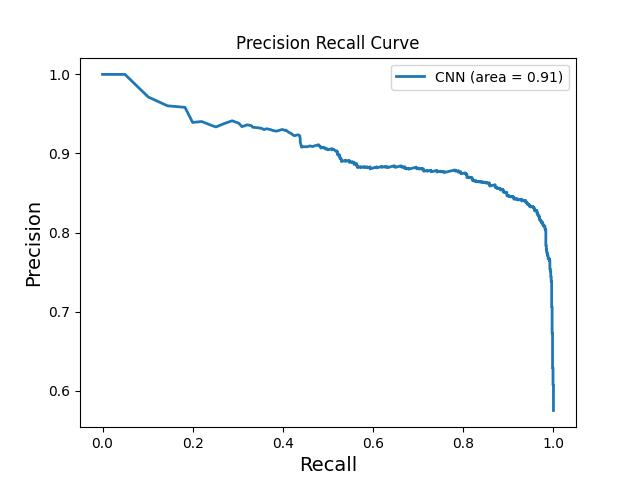
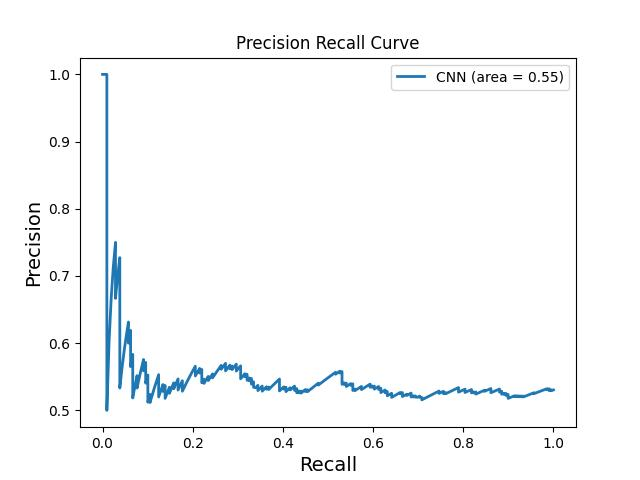
add Yeast_PPI and Human_PPI

diff --git a/train/human_ppi.py b/train/human_ppi.py
@@ -1,0 +1,84 @@
+import os
+import sys
+import argparse
+import torch
+import wandb
+
+module_path = os.path.abspath(os.path.join(os.path.dirname(__file__), '..'))
+if module_path not in sys.path:
+    sys.path.append(module_path)
+
+from ProB.dataset import *
+import ProB.utils as utils
+import ProB.PPI as models
+
+def parse_args():
+    parser = argparse.ArgumentParser(description="PPI Prediction with `ProB`")
+    parser.add_argument('--target_encoding', type=str, default='CNN', help='Encoding method for target proteins')
+    parser.add_argument('--seed', type=int, default=42, help='Random seed for reproducibility')
+    parser.add_argument('--wandb_proj', type=str, default='your_project_name', help='wandb project name')
+    parser.add_argument('--lr', type=float, default=0.0001, help='0.0001/0.00001')
+    parser.add_argument('--epochs', type=int, default=100, help='50/100')
+    parser.add_argument('--compute_pos_enc', type=bool, default=False, help='compute position encoding')
+    parser.add_argument('--batch_size', type=int, default=32, help='batch size')
+    return parser.parse_args()
+
+
+if __name__ == '__main__':
+
+    args = parse_args()
+    target_encoding = args.target_encoding
+    wandb_project = args.wandb_proj
+    lr = args.lr
+    epochs = args.epochs
+    compute_pos = args.compute_pos_enc
+    batch_size = args.batch_size
+
+    job_name = f"Human_PPI + {target_encoding}"
+    wandb.init(project=wandb_project, name=job_name)
+    wandb.config.update(args)
+
+    path = os.getcwd()
+
+    train_ppi = HUMAN_PPI(path + '/ProB/data', 'train')
+    valid_ppi = HUMAN_PPI(path + '/ProB/data', 'valid')
+    test_ppi = HUMAN_PPI(path + '/ProB/data', 'test')
+
+    if target_encoding in ['DGL_GAT', 'DGL_GCN', 'DGL_NeuralFP', 'DGL_AttentiveFP', 'DGL_MPNN', 'PAGTN', 'EGT', 'Graphormer']:
+
+        train_protein_1, train_protein_2, train_target, train_protein_idx = collate_fn_ppi(train_ppi, graph=True, unsqueeze= False)
+        valid_protein_1, valid_protein_2, valid_target, valid_protein_idx = collate_fn_ppi(valid_ppi, graph=True, unsqueeze= False)
+        test_protein_1, test_protein_2, test_target, test_protein_idx = collate_fn_ppi(test_ppi, graph=True, unsqueeze= False)
+
+    else:
+
+        train_protein_1, train_protein_2, train_target, train_protein_idx = collate_fn_ppi(train_ppi, graph=False, unsqueeze= False)
+        valid_protein_1, valid_protein_2, valid_target, valid_protein_idx = collate_fn_ppi(valid_ppi, graph=False, unsqueeze= False)
+        test_protein_1, test_protein_2, test_target, test_protein_idx = collate_fn_ppi(test_ppi, graph=False, unsqueeze= False)
+
+
+    train, _, _ = data_process(X_target = train_protein_1, X_target_ = train_protein_2, y = train_target,
+                    target_encoding = target_encoding,
+                    split_method='random', frac=[0.99998, 1e-5, 1e-5],
+                    random_seed = 1)
+    _, val, _ = data_process(X_target = valid_protein_1, X_target_ = valid_protein_2, y = valid_target,
+                    target_encoding = target_encoding,
+                    split_method='random',frac=[1e-5, 0.99998, 1e-5],
+                    random_seed = 1)
+
+    _, _, test = data_process(X_target = test_protein_1, X_target_ = test_protein_2, y = test_target,
+                    target_encoding = target_encoding,
+                    split_method='random',frac=[1e-5, 1e-5, 0.99998],
+                    random_seed = 1)
+    #
+    config = generate_config(target_encoding = target_encoding,
+                             cls_hidden_dims = [512],
+                             train_epoch = epochs,
+                             LR = lr,
+                             batch_size = batch_size,
+                            )
+
+    config['binary'] = True
+    torch.manual_seed(args.seed)
+    model = models.model_initialize(**config)
+    model.train(train, val, test)

diff --git a/train/yeast_ppi.py b/train/yeast_ppi.py
@@ -1,0 +1,84 @@
+import os
+import sys
+import argparse
+import torch
+import wandb
+
+module_path = os.path.abspath(os.path.join(os.path.dirname(__file__), '..'))
+if module_path not in sys.path:
+    sys.path.append(module_path)
+
+from ProB.dataset import *
+import ProB.utils as utils
+import ProB.PPI as models
+
+def parse_args():
+    parser = argparse.ArgumentParser(description="PPI Prediction with `ProB`")
+    parser.add_argument('--target_encoding', type=str, default='CNN', help='Encoding method for target proteins')
+    parser.add_argument('--seed', type=int, default=42, help='Random seed for reproducibility')
+    parser.add_argument('--wandb_proj', type=str, default='your_project_name', help='wandb project name')
+    parser.add_argument('--lr', type=float, default=0.0001, help='0.0001/0.00001')
+    parser.add_argument('--epochs', type=int, default=100, help='50/100')
+    parser.add_argument('--compute_pos_enc', type=bool, default=False, help='compute position encoding')
+    parser.add_argument('--batch_size', type=int, default=32, help='batch size')
+    return parser.parse_args()
+
+
+if __name__ == '__main__':
+
+    args = parse_args()
+    target_encoding = args.target_encoding
+    wandb_project = args.wandb_proj
+    lr = args.lr
+    epochs = args.epochs
+    compute_pos = args.compute_pos_enc
+    batch_size = args.batch_size
+
+    job_name = f"Yeast_PPI + {target_encoding}"
+    wandb.init(project=wandb_project, name=job_name)
+    wandb.config.update(args)
+
+    path = os.getcwd()
+
+    train_ppi = Yeast_PPI(path + '/ProB/data', 'train')
+    valid_ppi = Yeast_PPI(path + '/ProB/data', 'valid')
+    test_ppi = Yeast_PPI(path + '/ProB/data', 'test')
+
+    if target_encoding in ['DGL_GAT', 'DGL_GCN', 'DGL_NeuralFP', 'DGL_AttentiveFP', 'DGL_MPNN', 'PAGTN', 'EGT', 'Graphormer']:
+
+        train_protein_1, train_protein_2, train_target, train_protein_idx = collate_fn_ppi(train_ppi, graph=True, unsqueeze= False)
+        valid_protein_1, valid_protein_2, valid_target, valid_protein_idx = collate_fn_ppi(valid_ppi, graph=True, unsqueeze= False)
+        test_protein_1, test_protein_2, test_target, test_protein_idx = collate_fn_ppi(test_ppi, graph=True, unsqueeze= False)
+
+    else:
+
+        train_protein_1, train_protein_2, train_target, train_protein_idx = collate_fn_ppi(train_ppi, graph=False, unsqueeze= False)
+        valid_protein_1, valid_protein_2, valid_target, valid_protein_idx = collate_fn_ppi(valid_ppi, graph=False, unsqueeze= False)
+        test_protein_1, test_protein_2, test_target, test_protein_idx = collate_fn_ppi(test_ppi, graph=False, unsqueeze= False)
+
+
+    train, _, _ = data_process(X_target = train_protein_1, X_target_ = train_protein_2, y = train_target,
+                    target_encoding = target_encoding,
+                    split_method='random', frac=[0.99998, 1e-5, 1e-5],
+                    random_seed = 1)
+    _, val, _ = data_process(X_target = valid_protein_1, X_target_ = valid_protein_2, y = valid_target,
+                    target_encoding = target_encoding,
+                    split_method='random',frac=[1e-5, 0.99998, 1e-5],
+                    random_seed = 1)
+
+    _, _, test = data_process(X_target = test_protein_1, X_target_ = test_protein_2, y = test_target,
+                    target_encoding = target_encoding,
+                    split_method='random',frac=[1e-5, 1e-5, 0.99998],
+                    random_seed = 1)
+    #
+    config = generate_config(target_encoding = target_encoding,
+                             cls_hidden_dims = [512],
+                             train_epoch = epochs,
+                             LR = lr,
+                             batch_size = batch_size,
+                            )
+
+    config['binary'] = True
+    torch.manual_seed(args.seed)
+    model = models.model_initialize(**config)
+    model.train(train, val, test)

diff --git a/ProB/dataset.py b/ProB/dataset.py
@@ -253,6 +253,59 @@ class PPI_Affinity(Dataset):
         # print(protein_orig, target)
         return graph1, graph2, target
 
+class HUMAN_PPI(Dataset):
+
+    def __init__(self,
+                 data_path: Union[str, Path],
+                 split: str,
+                 in_memory: bool = False):
+        if split not in ('train', 'valid', 'test'):
+            raise ValueError(f"Unrecognized split: {split}. "
+                             f"Must be one of ['train', 'valid', 'test']")
+
+        data_path = Path(data_path)
+        data_file = f'human_ppi/human_ppi_{split}.lmdb'
+        self.data = dataset_factory(data_path / data_file, in_memory)
+        # print(self.__getitem__(0))
+
+    def __len__(self) -> int:
+        return len(self.data)
+
+    def __getitem__(self, index: int):
+        graph1 = self.data[index]['primary_1']
+        graph2 = self.data[index]['primary_2']
+        target = self.data[index]['interaction']
+        # print(protein_orig, target)
+        return graph1, graph2, target
+
+class Yeast_PPI(Dataset):
+
+    def __init__(self,
+                 data_path: Union[str, Path],
+                 split: str,
+                 in_memory: bool = False):
+        if split not in ('train', 'valid', 'test'):
+            raise ValueError(f"Unrecognized split: {split}. "
+                             f"Must be one of ['train', 'valid', 'test']")
+
+        data_path = Path(data_path)
+        data_file = f'yeast_ppi/yeast_ppi_{split}.lmdb'
+        self.data = dataset_factory(data_path / data_file, in_memory)
+        # print(self.__getitem__(0))
+
+    def __len__(self) -> int:
+        return len(self.data)
+
+    def __getitem__(self, index: int):
+        graph1 = self.data[index]['primary_1']
+        graph2 = self.data[index]['primary_2']
+        target = self.data[index]['interaction']
+        # print(protein_orig, target)
+        return graph1, graph2, target
+
+
+
+
 def collate_fn(batch, graph=False, unsqueeze=True):
     # Unpack batch into protein sequences and targets
     protein_orig, target = tuple(zip(*batch))

diff --git a/ProB/PPI.py b/ProB/PPI.py
@@ -116,7 +116,7 @@ class PPI_Model:
 		self.result_folder = config['result_folder']
 		if not os.path.exists(self.result_folder):
 			os.mkdir(self.result_folder)            
-		self.binary = False
+		self.binary = config['binary']
 		if 'num_workers' not in self.config.keys():
 			self.config['num_workers'] = 0
 		if 'decay' not in self.config.keys():
